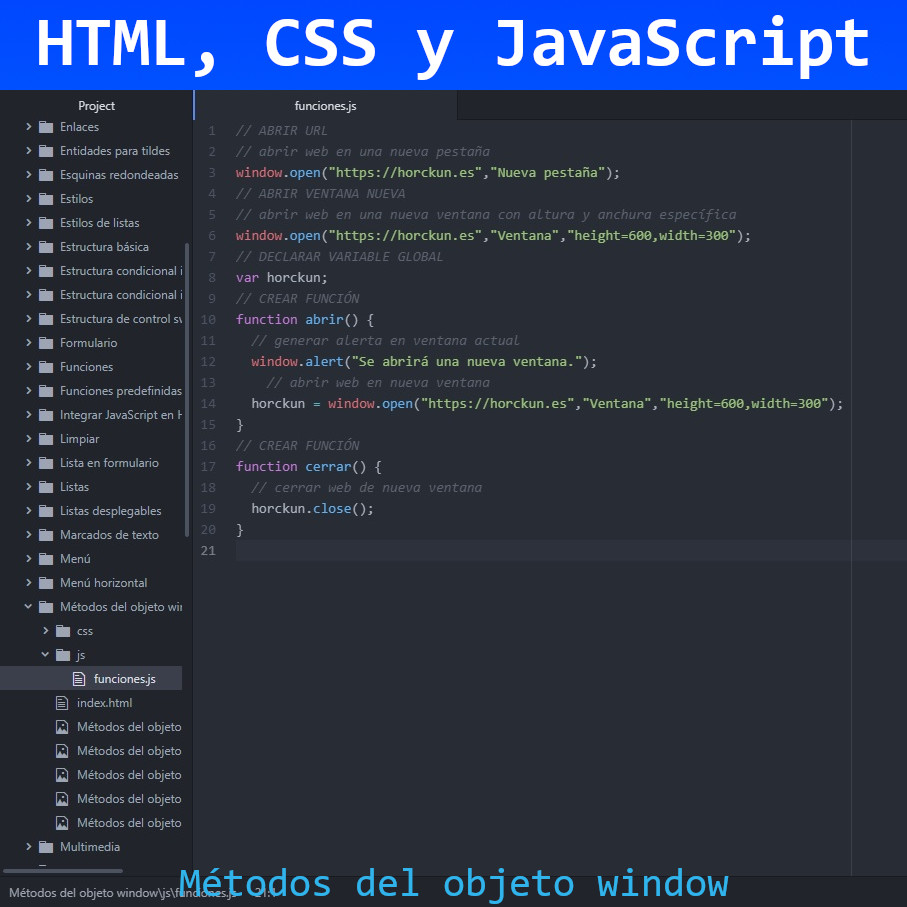
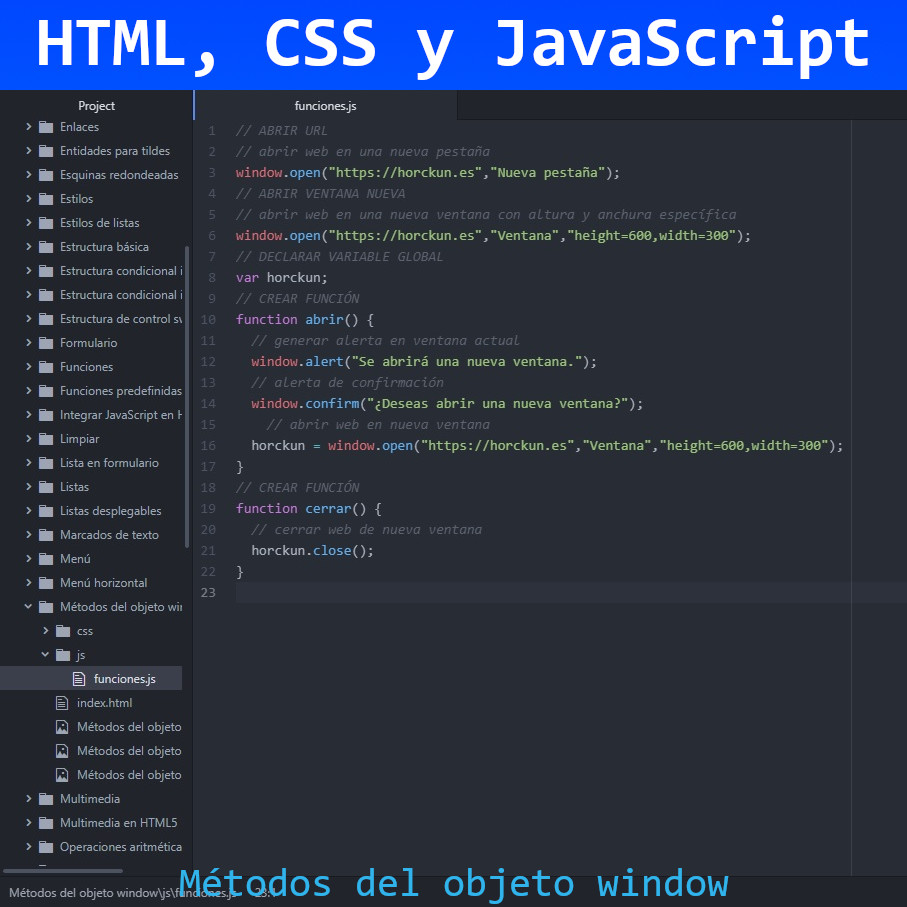
Método del objeto window
Método del objeto window en JavaScript

Changed region(s): [[0.247, 0.4013, 0.9261, 0.6174], [0.0309, 0.8644, 0.1852, 0.957], [0.4939, 0.5248, 0.5248, 0.5557]]

diff --git a/HTML, CSS y JavaScript/Métodos del objeto window/js/funciones.js b/HTML, CSS y JavaScript/Métodos del objeto window/js/funciones.js
@@ -10,7 +10,9 @@ var horckun;
 function abrir() {
   // generar alerta en ventana actual
   window.alert("Se abrirá una nueva ventana.");
-    // abrir web en nueva ventana
+  // alerta de confirmación
+  window.confirm("¿Deseas abrir una nueva ventana?");
+  // abrir web en nueva ventana
   horckun = window.open("https://horckun.es","Ventana","height=600,width=300");
 }
 // CREAR FUNCIÓN
